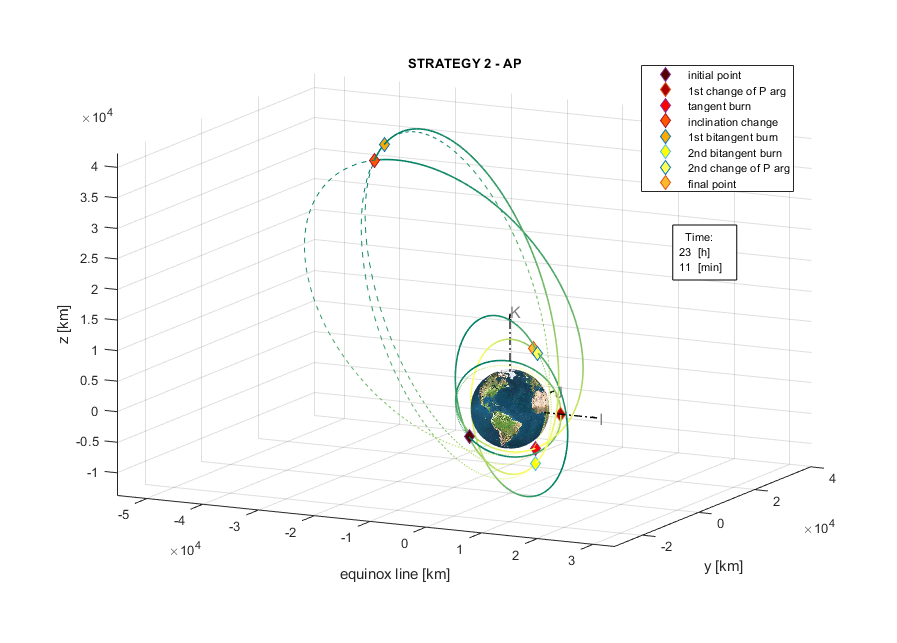
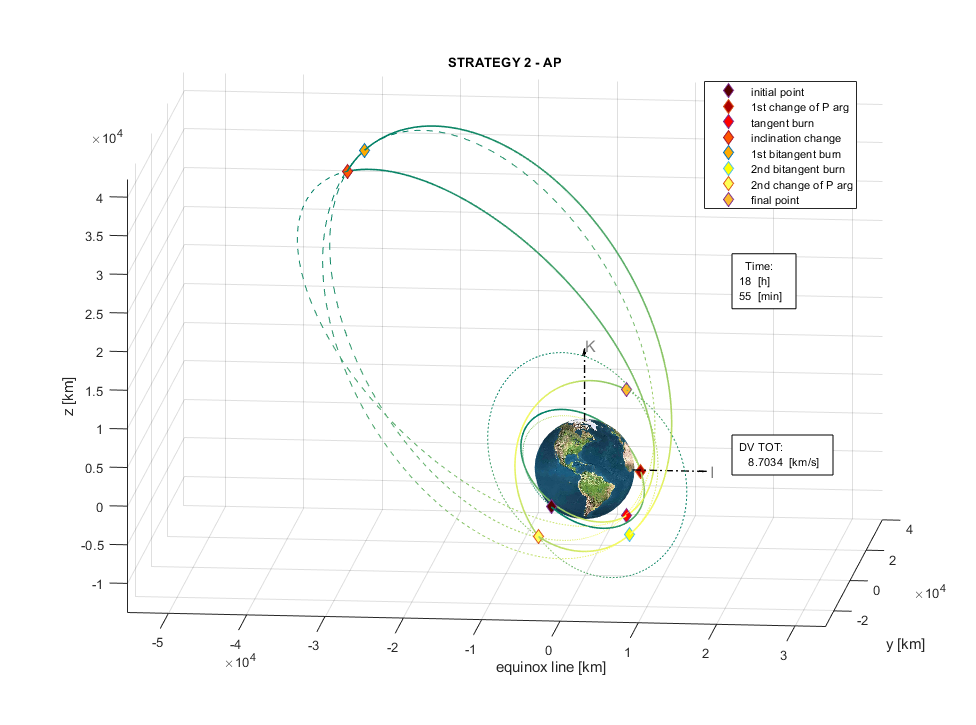
correzione plot e altra roba minore

diff --git a/simulation/tester.m b/simulation/tester.m
@@ -304,7 +304,7 @@ for rAllontanamento=30000:2000:100000
     dVtot=dVtot+deltaV4+deltaV5;
     dTtot=dTtot+deltaT4+deltaT5;
     
-    
+    orb5(6)=0;
     [orb6, deltaV6, deltaT6, thetaman5] = cambioAnomaliaPericentro(orb5, orbFin(5));
     dVtot=dVtot+deltaV6;
     dTtot=dTtot+deltaT6;
@@ -359,7 +359,7 @@ for omega=270:0.1:300
     dVtot=dVtot+deltaV4+deltaV5;
     dTtot=dTtot+deltaT4+deltaT5;
     
-    
+    orb5(6)=0;
     [orb6, deltaV6, deltaT6, thetaman5] = cambioAnomaliaPericentro(orb5, orbFin(5));
     dVtot=dVtot+deltaV6;
     dTtot=dTtot+deltaT6;

diff --git a/simulation/main.m b/simulation/main.m
@@ -283,7 +283,7 @@ orb5(5)=wrapTo360(orb3(5)); %sfasare di 180 per aa e pp, lasciare così per ap e
 dVtot=dVtot+deltaV4+deltaV5;
 dTtot=dTtot+deltaT4+deltaT5;
 
-
+orb5(6)=0;
 [orb6, deltaV6, deltaT6, thetaman5] = cambioAnomaliaPericentro(orb5, orbFin(5));
 dVtot=dVtot+deltaV6;
 dTtot=dTtot+deltaT6;
